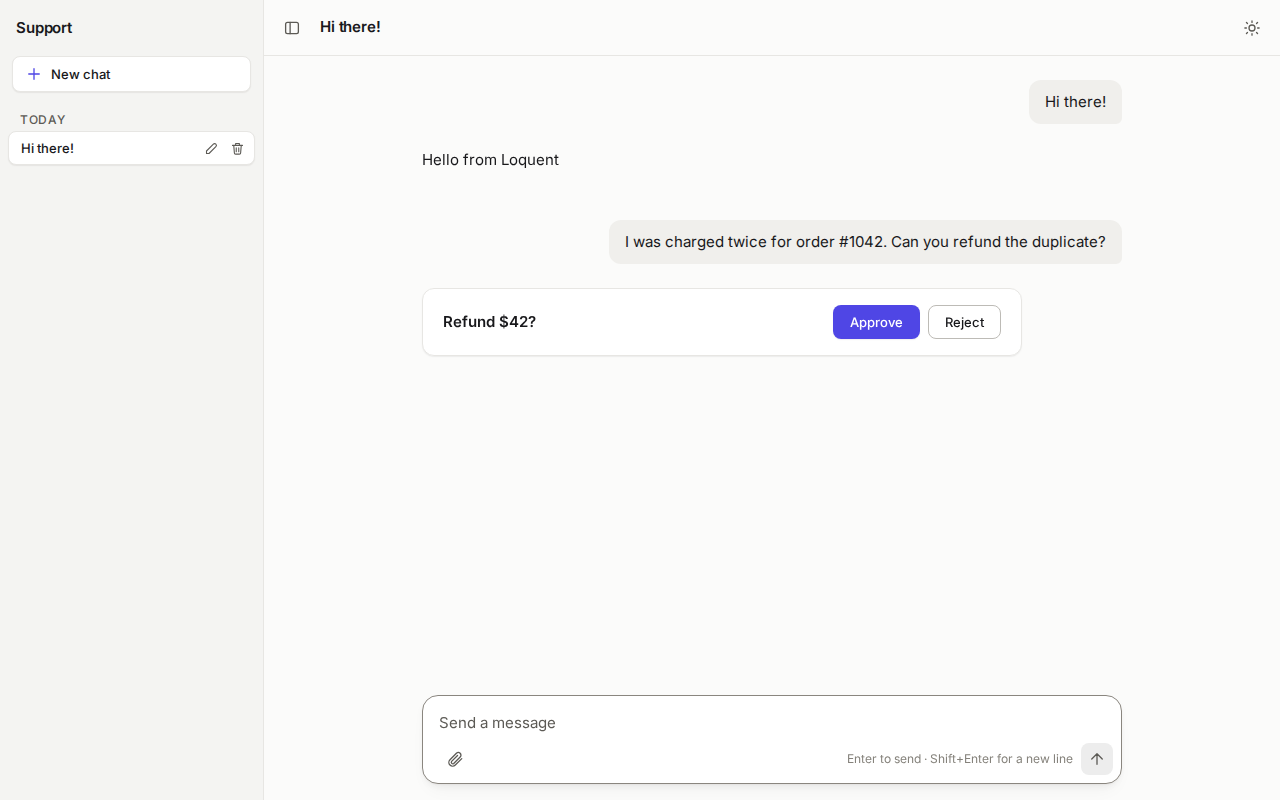
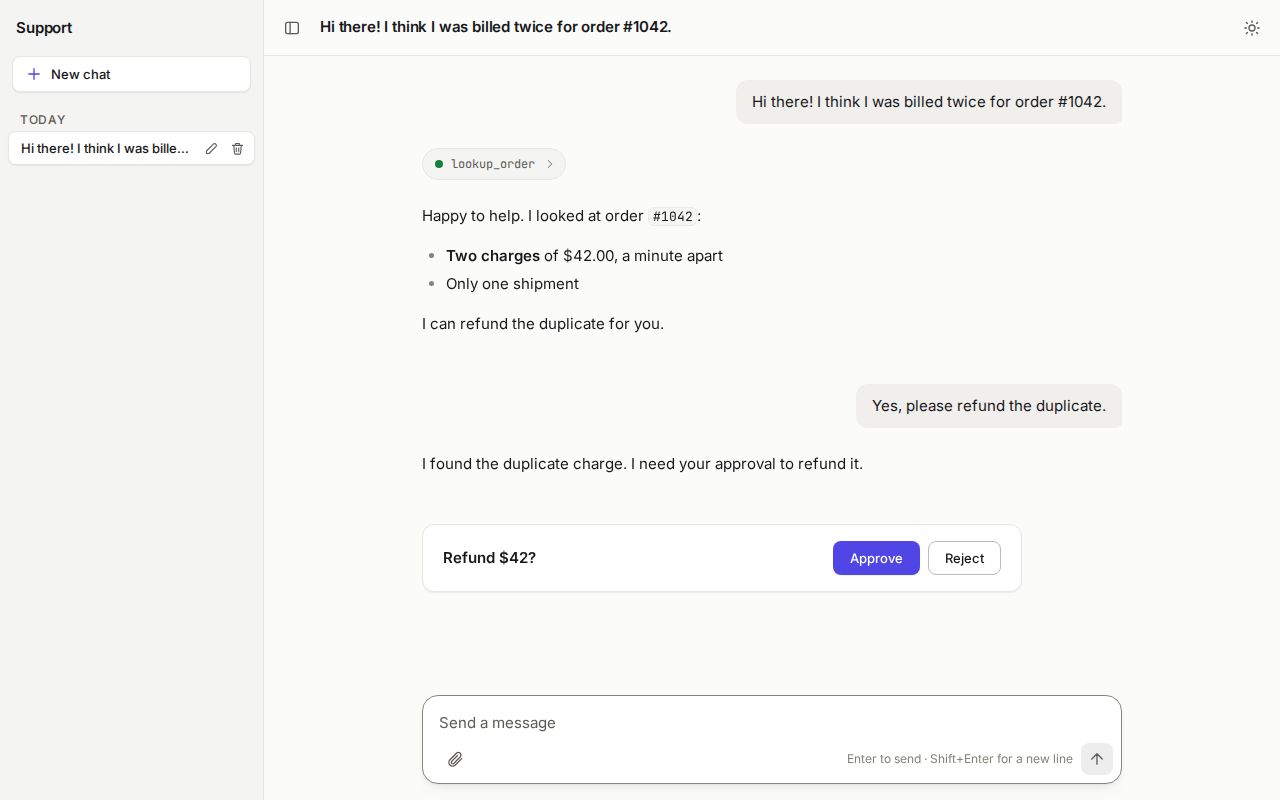
fix: serve empty custom.css, theme preview precedence, doc corrections
Empty 200 text/css for an unset custom_css_path (no console error), ?theme= wins
over prefs, DESIGN.md precedence and CRLF fixes, richer README screenshot.

diff --git a/frontend/src/App.tsx b/frontend/src/App.tsx
@@ -8,7 +8,7 @@ import { ThreadList } from "./components/ThreadList";
 import { part } from "./parts";
 import { appStore, type AppStore } from "./state/store";
 import { StoreProvider, useApp, useAppStore } from "./storeContext";
-import { allowedThemes, applyAppearance, previewTheme, resolveThemeId, useSystemDark, type ThemePref } from "./theme";
+import { allowedThemes, applyAppearance, effectiveThemeId, previewTheme, useSystemDark, type ThemePref } from "./theme";
 import type { ThemeId } from "./themes";
 
 const NAV_ID = "lq-nav";
@@ -202,9 +202,10 @@ function Shell() {
   useEffect(load, [load]);
 
   const themes = allowedThemes(config?.themes);
-  // `?theme=<id>` previews an allowed theme until the button is used; it is never stored.
+  // `?theme=<id>` previews an allowed theme and wins over any pref (preview > pref > default).
+  // It is never stored. Tasks 9/10: keep this precedence when prefs become persistent.
   const preview = previewTheme(window.location.search, themes);
-  const theme = resolveThemeId(pref ?? preview ?? undefined, { default_theme: config?.default_theme, themes }, dark);
+  const theme = effectiveThemeId(preview, pref, { default_theme: config?.default_theme, themes }, dark);
   const brand = config?.theme ?? null;
   const locks = config?.lock_tokens;
   useLayoutEffect(() => applyAppearance({ theme }, brand, document.documentElement, locks ?? []), [theme, brand, locks]);

diff --git a/frontend/e2e/themes.spec.ts b/frontend/e2e/themes.spec.ts
@@ -8,15 +8,16 @@ const SIZES = [
   { name: "mobile", width: 390, height: 844 },
 ] as const;
 
+// Relies on the default `themes` setting allowing all four themes.
 for (const id of THEMES) {
   test(`theme ${id}`, async ({ page }) => {
     const errors: string[] = [];
-    // The page always links branding/custom.css; the server answers 404 when none is configured,
-    // which Chromium logs as a console error. Known and unrelated to themes, so it is skipped.
-    const known = /branding\/custom\.css/;
-    page.on("console", (m) => m.type() === "error" && !known.test(m.text()) && errors.push(m.text()));
+    page.on("console", (m) => m.type() === "error" && errors.push(`${m.text()} ${m.location().url}`));
     page.on("pageerror", (e) => errors.push(e.message));
 
+    // Start from an empty thread list so earlier tests do not show in the screenshots.
+    const list = await page.request.get("/api/threads");
+    for (const t of await list.json()) await page.request.delete(`/api/threads/${t.id}`, { headers: { "X-Loquent-CSRF": "1" } });
     await page.setViewportSize({ width: SIZES[0].width, height: SIZES[0].height });
     await page.goto(`/?theme=${id}`);
     await expect(page.getByRole("textbox", { name: "Message" })).toBeVisible();

diff --git a/frontend/src/theme.test.ts b/frontend/src/theme.test.ts
@@ -1,6 +1,6 @@
 import { afterEach, describe, expect, it, vi } from "vitest";
 import { loadThemeFonts } from "./fonts";
-import { applyAppearance, contrast, CUSTOM_ATTR, parseColor, resolveTheme, previewTheme, resolveThemeId, systemDark } from "./theme";
+import { applyAppearance, contrast, CUSTOM_ATTR, parseColor, resolveTheme, effectiveThemeId, previewTheme, resolveThemeId, systemDark } from "./theme";
 import { THEME_TOKENS, THEMES, type ThemeId } from "./themes";
 
 vi.mock("./fonts", () => ({ loadThemeFonts: vi.fn(async () => {}) }));
@@ -387,5 +387,14 @@ describe("previewTheme (?theme=)", () => {
     expect(previewTheme("?theme=editorial", allowed)).toBeNull();
     expect(previewTheme("?theme=nope", allowed)).toBeNull();
     expect(previewTheme("", allowed)).toBeNull();
+  });
+});
+
+describe("effectiveThemeId precedence", () => {
+  const cfg = { default_theme: "graphite", themes: ["graphite", "midnight", "editorial"] };
+  it("preview beats pref beats default", () => {
+    expect(effectiveThemeId("editorial", "midnight", cfg, false)).toBe("editorial");
+    expect(effectiveThemeId(null, "midnight", cfg, false)).toBe("midnight");
+    expect(effectiveThemeId(null, undefined, cfg, true)).toBe("graphite");
   });
 });

diff --git a/frontend/src/theme.ts b/frontend/src/theme.ts
@@ -424,6 +424,15 @@ export function previewTheme(search: string, allowed: readonly ThemeId[]): Theme
   return isThemeId(id) && allowed.includes(id) ? id : null;
 }
 
+/**
+ * Preview > pref > default. An allowed `?theme=` is explicit and non-persistent, so it wins
+ * over any stored or session pref; without it the pref (then `default_theme`, then the
+ * system scheme) decides, as in resolveThemeId.
+ */
+export function effectiveThemeId(preview: ThemeId | null, pref: ThemePref | undefined, cfg: ThemeConfig, systemDark: boolean): ThemeId {
+  return resolveThemeId(preview ?? pref, cfg, systemDark);
+}
+
 // ---------- system scheme ----------
 
 function darkQuery(): MediaQueryList | null {

diff --git a/frontend/e2e/fixtures/shot_agent.py b/frontend/e2e/fixtures/shot_agent.py
@@ -1,0 +1,43 @@
+"""Agent for the README screenshot (e2e/screenshot.mjs): a tool step, a markdown reply, a widget.
+
+- "refund" in the text: asks a Confirm widget
+- anything else: a short tool call, then a markdown reply
+"""
+
+import asyncio
+
+from ag_ui.core import (
+    ToolCallArgsEvent,
+    ToolCallEndEvent,
+    ToolCallResultEvent,
+    ToolCallStartEvent,
+)
+
+from loquent import ui
+from loquent.ui import Confirm
+
+
+def _last_user_text(messages) -> str:
+    for m in reversed(messages):
+        if m.role == "user":
+            return m.content if isinstance(m.content, str) else ""
+    return ""
+
+
+async def agent(messages, ctx):
+    if ctx.answer is not None:
+        yield "Refunded. You will see the credit in 3 to 5 days."
+        return
+    text = _last_user_text(messages).lower()
+    if "refund" in text:
+        yield "I found the duplicate charge. I need your approval to refund it."
+        yield ui.ask(Confirm("Refund $42?", key="refund"))
+        return
+    yield ToolCallStartEvent(tool_call_id="c1", tool_call_name="lookup_order")
+    yield ToolCallArgsEvent(tool_call_id="c1", delta='{"order": 1042}')
+    yield ToolCallEndEvent(tool_call_id="c1")
+    await asyncio.sleep(0.2)
+    yield ToolCallResultEvent(message_id="r1", tool_call_id="c1", content="2 charges found")
+    yield "Happy to help. I looked at order `#1042`:\n\n"
+    yield "- **Two charges** of $42.00, a minute apart\n- Only one shipment\n\n"
+    yield "I can refund the duplicate for you."

diff --git a/tests/test_app.py b/tests/test_app.py
@@ -54,7 +54,8 @@ async def test_index_injects_base_href(tmp_path, monkeypatch):
         r = await c.get("/api/nope")
         assert r.status_code == 404 and r.json() == {"error": "not_found"}
         assert (await c.get("/branding/logo")).status_code == 404
-        assert (await c.get("/branding/custom.css")).status_code == 404
+        r = await c.get("/branding/custom.css")  # unset: an empty stylesheet, not a 404
+        assert r.status_code == 200 and r.text == "" and r.headers["content-type"].startswith("text/css")
         assert (await c.get("/assets/%2e%2e/index.html")).status_code == 404
         assert (await c.get("/assets/a%00.js")).status_code == 404
 

diff --git a/src/loquent/server/static.py b/src/loquent/server/static.py
@@ -82,7 +82,8 @@ def routes(settings: Settings) -> list[Route]:
     async def custom_css(request: Request) -> Response:
         p = settings.custom_css_path
         if p is None or not Path(p).is_file():
-            raise HTTPException(404)
+            # The page always links this stylesheet: an empty one keeps the console clean.
+            return Response("", media_type="text/css")
         return FileResponse(p, media_type="text/css")
 
     return [

diff --git a/DESIGN.md b/DESIGN.md
@@ -219,10 +219,12 @@ token-list selector `[data-lq-part~="name"]`, never `=`:
 [data-lq-part~="activity"][data-lq-state="error"] {
   border-color: var(--lq-danger);
 }
-/* Re-colour with tokens, in one theme only. */
+/* Re-colour with tokens, in one theme only. If a brand key such as `theme.accent` sets the
+   same token, it is an inline style on <html> and beats this rule: add !important, or drop
+   the brand key. */
 [data-lq-theme="midnight"] {
-  --lq-accent: #a78bfa;
-  --lq-accent-text: #0b0618;
+  --lq-accent: #a78bfa !important;
+  --lq-accent-text: #0b0618 !important;
 }
 ```
 
@@ -304,6 +306,15 @@ Loquent's own CSS lives in cascade layers, in this order (lowest to highest prio
 layer** regardless of selector specificity: a plain `[data-lq-part~="composer"] { ... }` is
 enough.
 
+For colour and shape tokens there is one more tier, because the brand layer and user
+preferences are applied as inline styles on `<html>`. From strongest to weakest:
+
+1. `lock_tokens`: inline `!important`, so a locked token keeps its brand or theme value.
+2. The `theme` brand keys (and the user's accent pref): inline on `<html>`.
+3. Unlayered developer and user CSS. It beats the layers, but not an inline brand value for
+   the same token unless it uses `!important`.
+4. Loquent's `lq.*` layers, including the theme palettes.
+
 ### Internal variables are not API
 
 Variables that start with `--lqi-` (for example `--lqi-glow` or `--lqi-new-chat-bg`) are
@@ -313,8 +324,9 @@ disappear in any release. Do not depend on them; use the `--lq-*` tokens and the
 ### The legacy `theme` keys: a brand layer
 
 The `theme` setting (`accent`, `background`, `surface`, `text`, `muted`, `radius`, `font`) is
-a **brand layer** on top of the active theme: it sets the matching `--lq-*` tokens, above the
-theme and below user preferences and user CSS. Text on accent fills is black or white,
+a **brand layer** on top of the active theme: it sets the matching `--lq-*` tokens as inline
+styles on `<html>`, so it beats the theme and, for the same token, plain unlayered CSS (see
+the precedence above). `lock_tokens` is the only thing above it. Text on accent fills is black or white,
 whichever contrasts more. When you set `background`, the palette is yours in every theme and
 the remaining surfaces are derived from it. Readable text is enforced for derived colours:
 `text` is stepped to at least **4.5:1** and `text-subtle` to at least **3:1** on the
